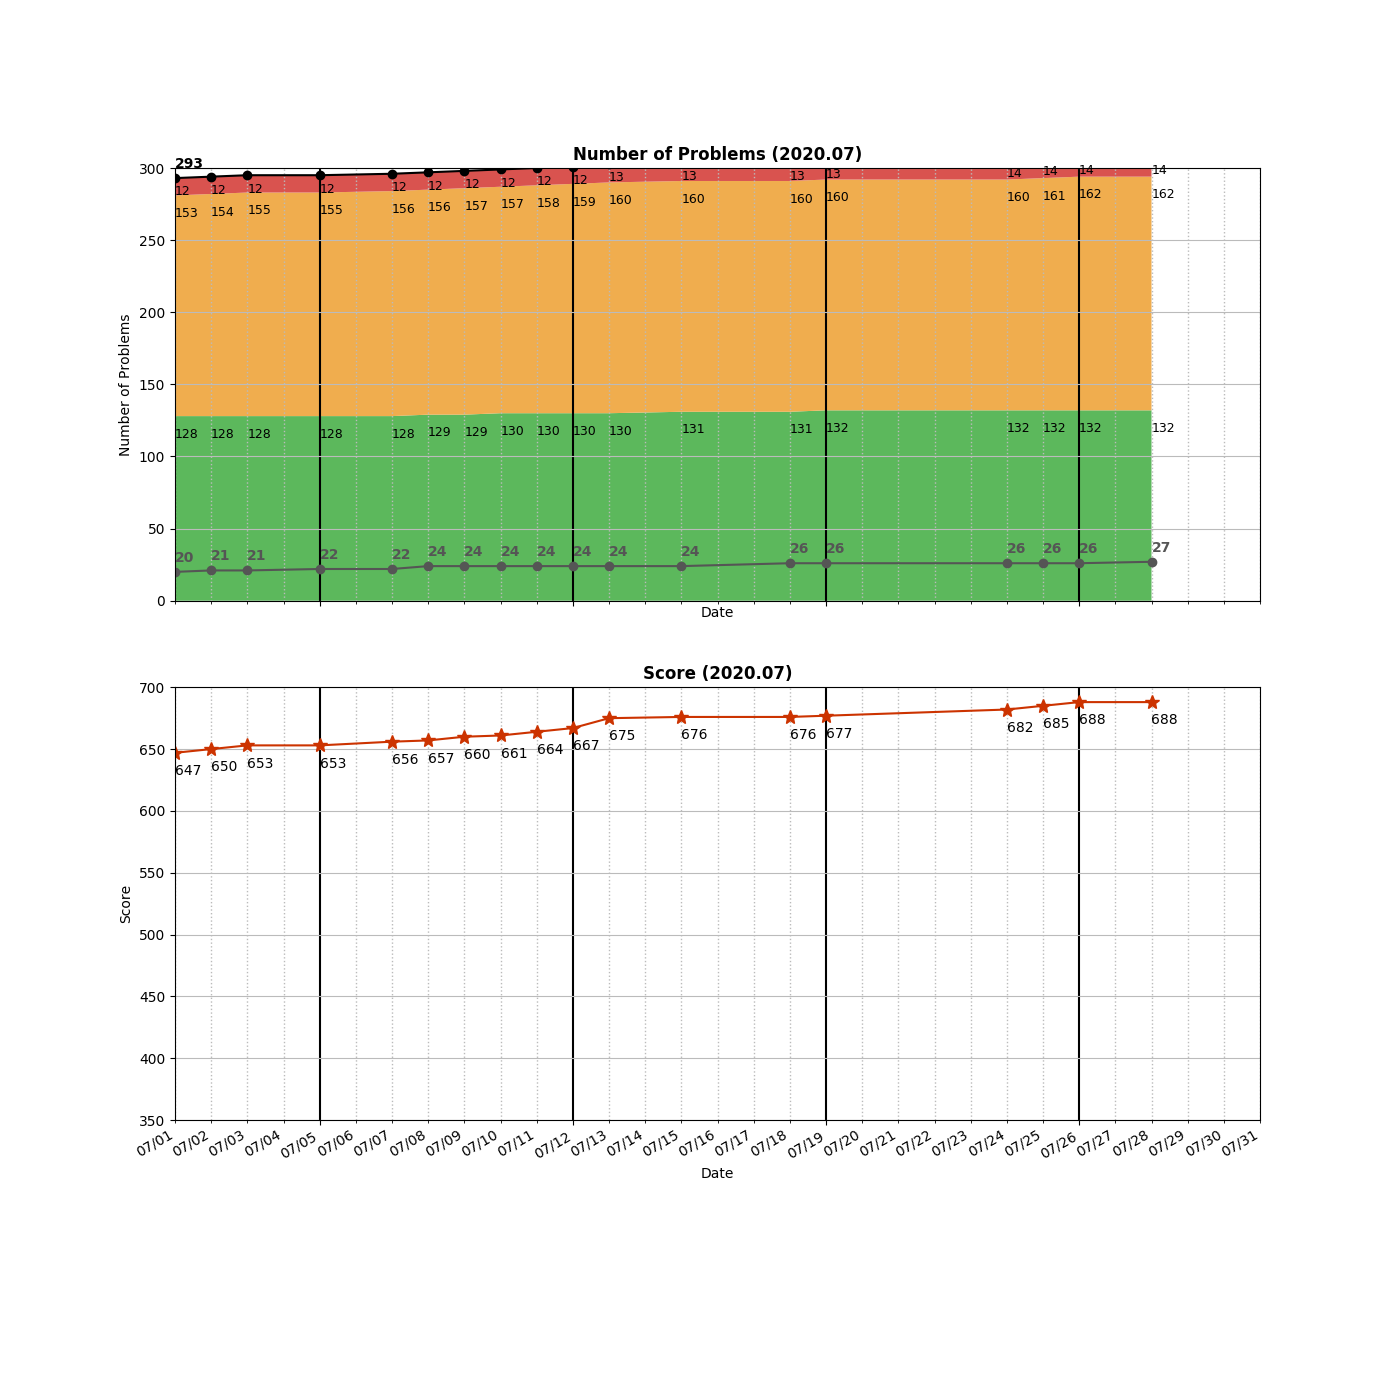
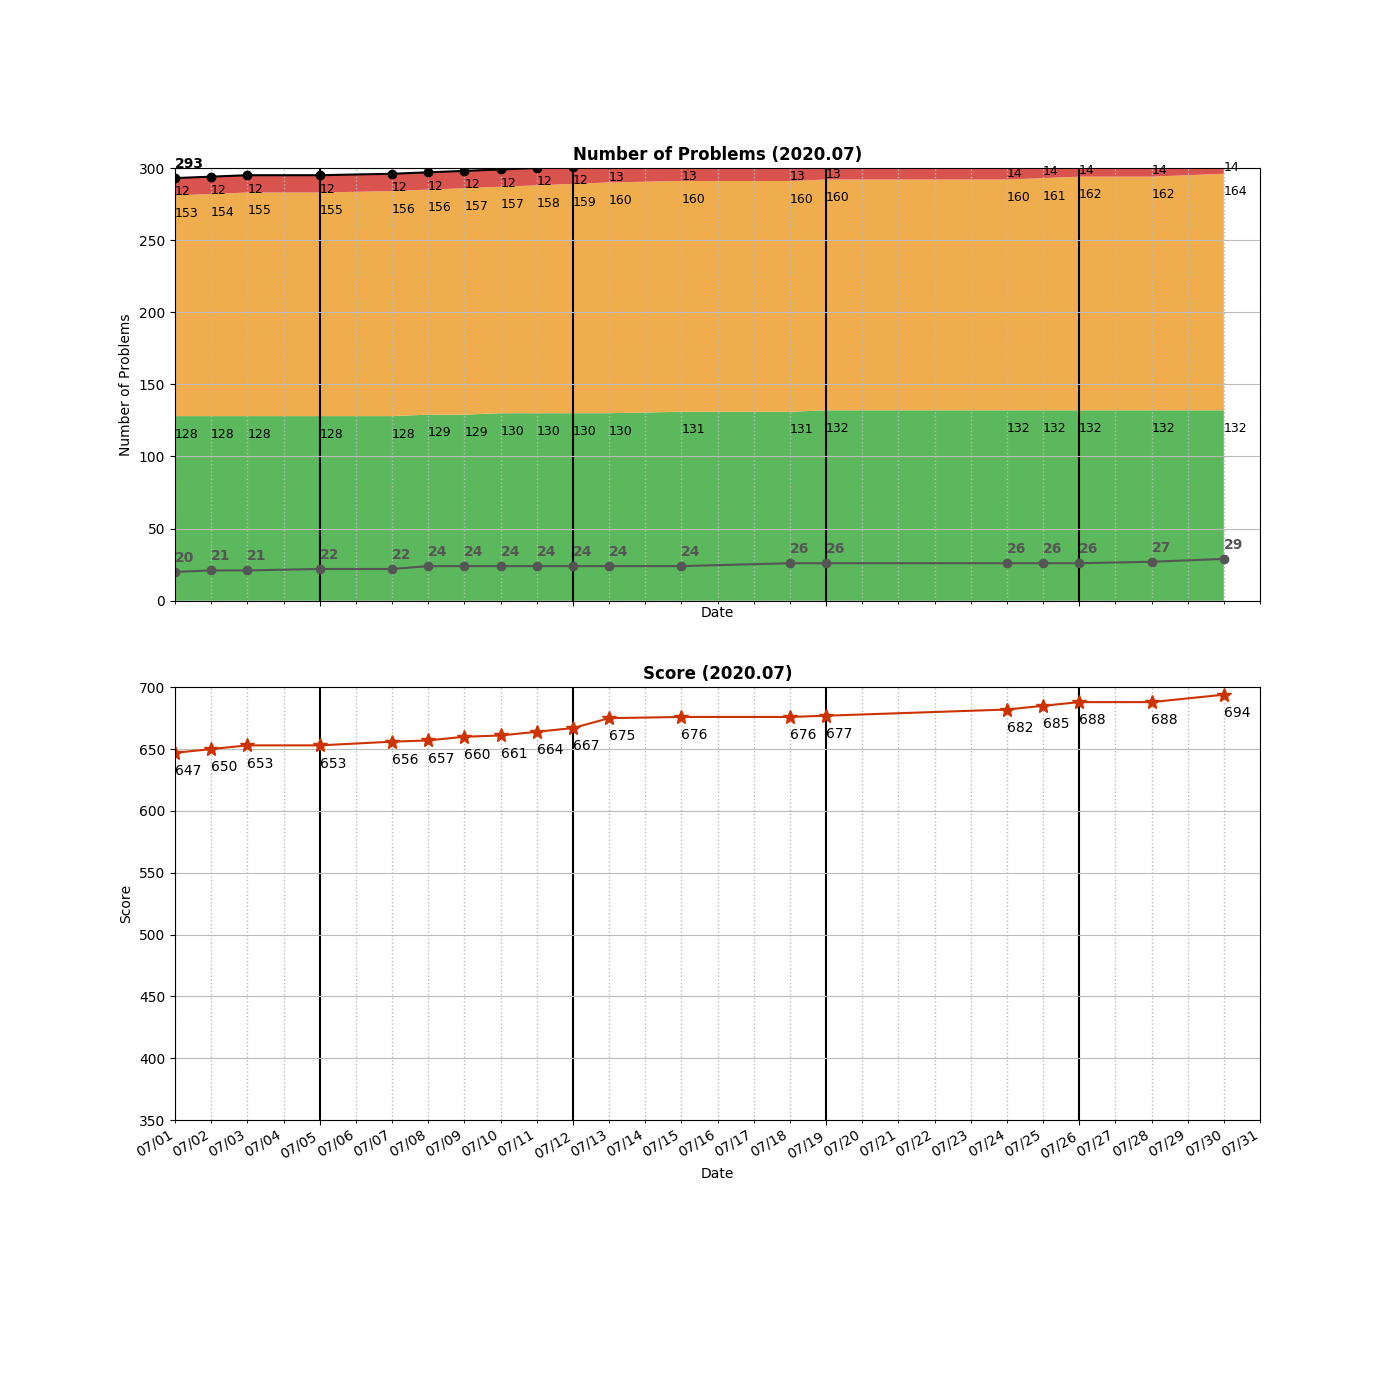
Reviewed _0226_InvertBinaryTree.py

Changed region(s): [[0.7986, 0.1229, 0.8907, 0.43], [0.86, 0.4914, 0.8907, 0.5221]]

diff --git a/README.md b/README.md
@@ -289,6 +289,7 @@ algo
 │   ├── _0236_LowestCommonAncestorOfABinaryTree.py
 │   ├── _0257_BinaryTreePaths.py
 │   ├── _0270_ClosestBinarySearchTreeValue.py
+│   ├── _0285_InorderSuccessorInBST.py
 │   ├── _0297_SerializeAndDeserializeBinaryTree.py
 │   ├── _0298_BinaryTreeLongestConsecutiveSequence.py
 │   ├── _0314_BinaryTreeVerticalOrderTraversal.py
@@ -310,9 +311,10 @@ algo
 │   ├── _0938_RangeSumOfBST.py
 │   ├── _0951_FlipEquivalentBinaryTrees.py
 │   ├── _1022_SumOfRootToLeafBinaryNumbers.py
-│   └── _1214_TwoSumBSTs.py
+│   ├── _1214_TwoSumBSTs.py
+│   └── _1490_CloneN-aryTree.py
 ├── tree-delete
-│   ├── _0450_DeleteNodeInABST
+│   ├── _0450_DeleteNodeInABST.py
 │   └── _1110_DeleteNodesAndReturnForest.py
 ├── two-pointer
 │   ├── _0011_ContainerWithMostWater.py
@@ -335,7 +337,7 @@ algo
     ├── _0127_WordLadder_TLE.py
     └── _0127_WordLadder_wrong.py
 
-28 directories, 306 files
+28 directories, 308 files
 
 =====================================
 ============= Local Repo ============
@@ -498,6 +500,7 @@ _0274_H-Index.py
 _0278_FirstBadVersion.py
 _0279_PerfectSquares.py
 _0283_MoveZeroes.py
+_0285_InorderSuccessorInBST.py
 _0287_FindTheDuplicateNumber.py
 _0290_WordPattern.py
 _0291_WordPattern2.py
@@ -538,6 +541,7 @@ _0429_N-aryTreeLevelOrderTraversal.py
 _0438_FindAllAnagramsInAString.py
 _0442_FindAllDuplicatesInAnArray.py
 _0448_FindAllNumbersDisappearedInAnArray.py
+_0450_DeleteNodeInABST.py
 _0451_SortCharactersByFrequency.py
 _0459_RepeatedSubstringPattern.py
 _0463_IslandPerimeter.py
@@ -644,8 +648,9 @@ _1342_NumberOfStepsToReduceANumberToZero.py
 _1358_NumberOfSubstringsContainingAllThreeCharacters.py
 _1391_CheckIfThereIsAValidPathInAGrid.py
 _1427_PerformStringShifts.py
+_1490_CloneN-aryTree.py
 =====================================
-Num of Python Practice:  304
+Num of Python Practice:  307
 
 
 =====================================
@@ -808,6 +813,7 @@ Num of Python Practice:  304
  0278 First Bad Version
  0279 Perfect Squares
  0283 Move Zeroes
+ 0285 Inorder Successor in BST
  0287 Find the Duplicate Number
  0290 Word Pattern
  0291 Word Pattern II
@@ -959,12 +965,13 @@ Num of Python Practice:  304
  1391 Check if There is a Valid Path in a Grid
  1426 Counting Elements
  1427 Perform String Shifts
+ 1490 Clone N-ary Tree
 =====================================
 Solved / Total (Easy)  :  132 /  426
-Solved / Total (Medium):  162 /  782
+Solved / Total (Medium):  164 /  784
 Solved / Total (Hard)  :   14 /  323
-Solved / Total (All)   :  308 / 1531
-Total Score            :  688
+Solved / Total (All)   :  310 / 1533
+Total Score            :  694
 =====================================
 
 ```
